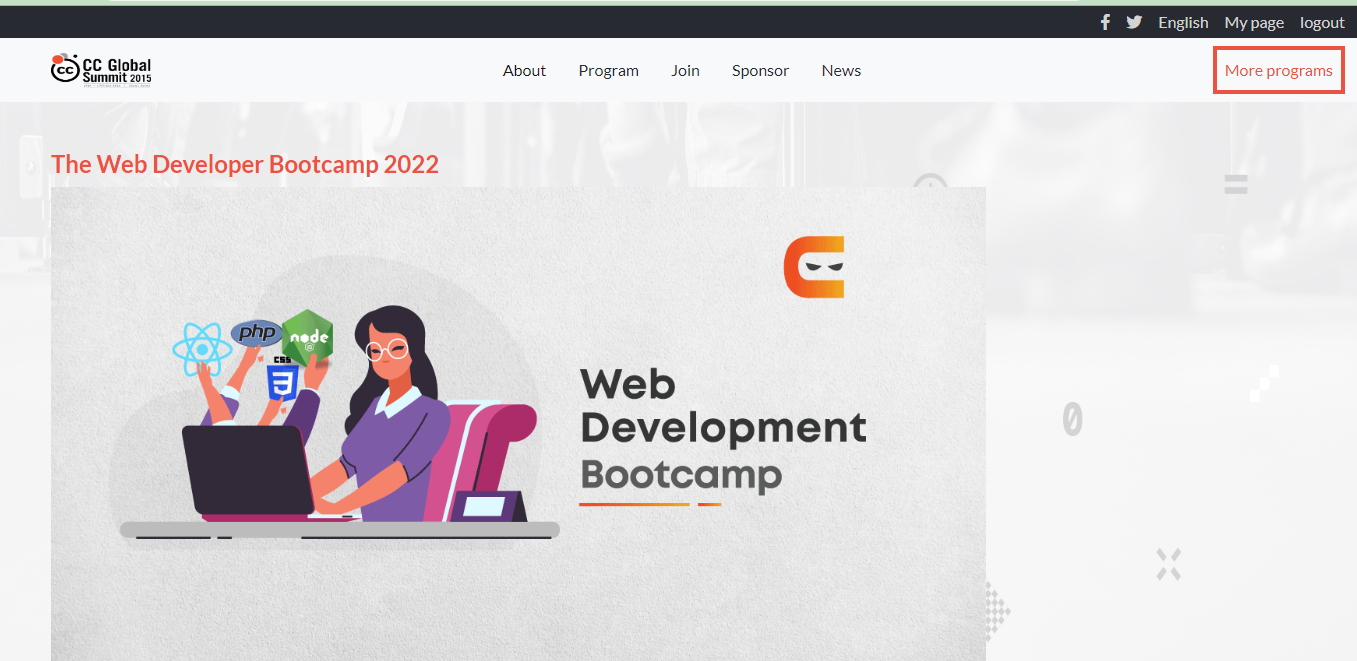
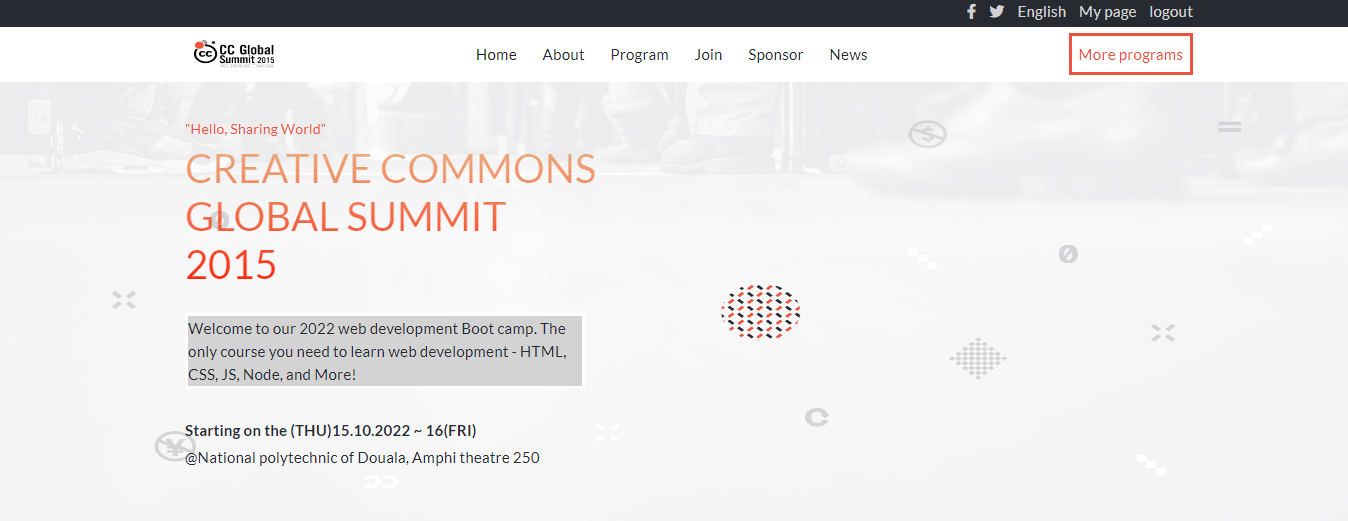
Update project image

diff --git a/README.md b/README.md
@@ -1,6 +1,10 @@
+# Final Capstone: Wep development online website
+
+# Desktop Version
 ![](/app_screenshot.png)
 
-# Final Capstone: Wep development online website
+# Mobile Version
+![](/projectImage.JPG)
 
 > This project is a part of microverse training program. It was build using HTML5, CSS, JavaScript and BS5.
 It is a web application for a web development boot camp. In this project I implemented the following:
